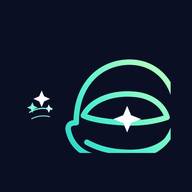
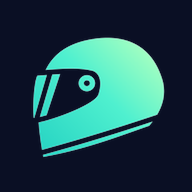
fix(site): limpa SVG do capacete vetorial para renderizacao estavel

Changed region(s): [[0.125, 0.1875, 0.9062, 0.8438]]

diff --git a/site/index.html b/site/index.html
@@ -80,7 +80,7 @@
   <header class="nav">
     <div class="wrap nav-inner">
       <a class="brand" href="#topo" aria-label="ZapClin — início">
-        <img class="brand-helmet" src="/zapclin/site/assets/helmet-icon.svg?v=5" alt="" width="44" height="44">
+        <img class="brand-helmet" src="/zapclin/site/assets/helmet-icon.svg?v=6" alt="" width="44" height="44">
         <span class="brand-text">
           <span class="brand-name"><span class="zap">Zap</span><span class="clin">Clin</span></span>
           <span class="brand-tag">Higienização de Capacetes</span>
@@ -107,7 +107,7 @@
       </div>
       <div class="wrap">
         <div class="hero-brand reveal">
-          <img class="hero-helmet" src="/zapclin/site/assets/helmet-icon.svg?v=5" alt="" width="88" height="88">
+          <img class="hero-helmet" src="/zapclin/site/assets/helmet-icon.svg?v=6" alt="" width="88" height="88">
           <div>
             <p class="hero-brand-name"><span class="zap">Zap</span><span class="clin">Clin</span></p>
             <p class="hero-brand-tag">Higienização de Capacetes</p>
